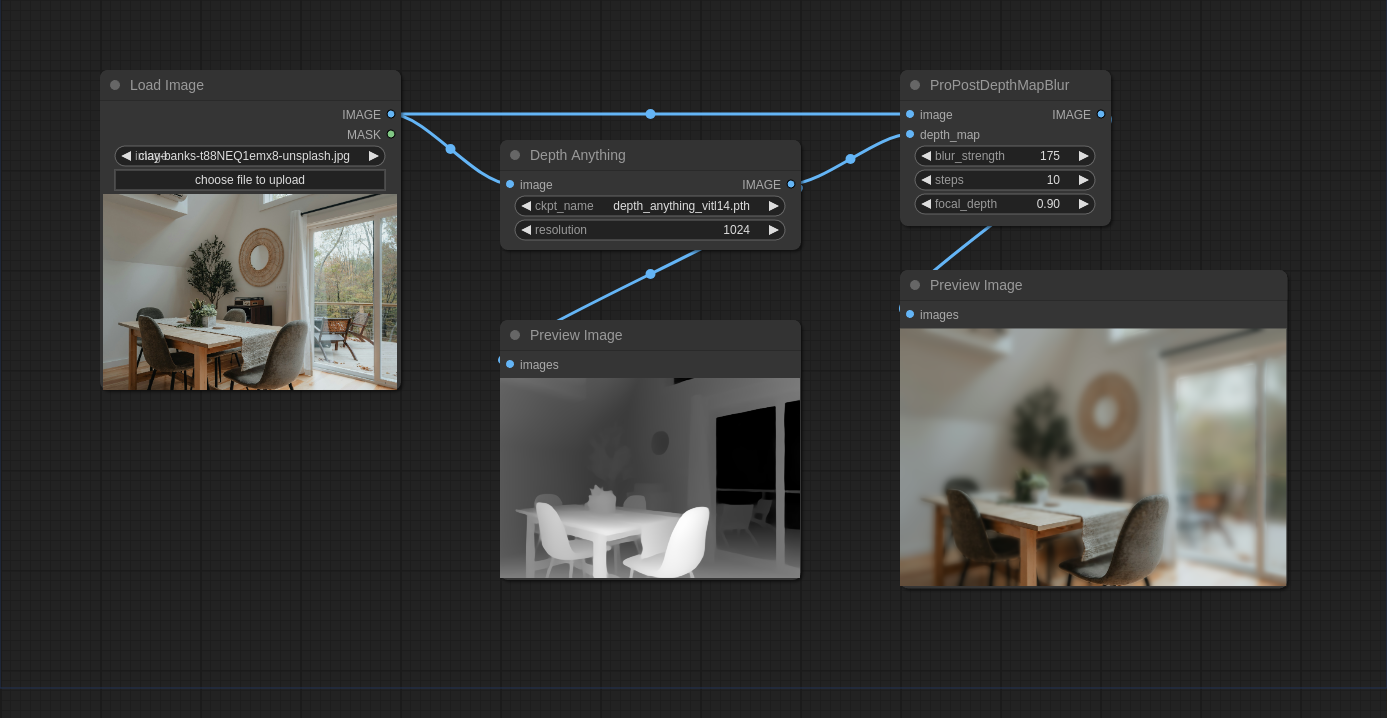
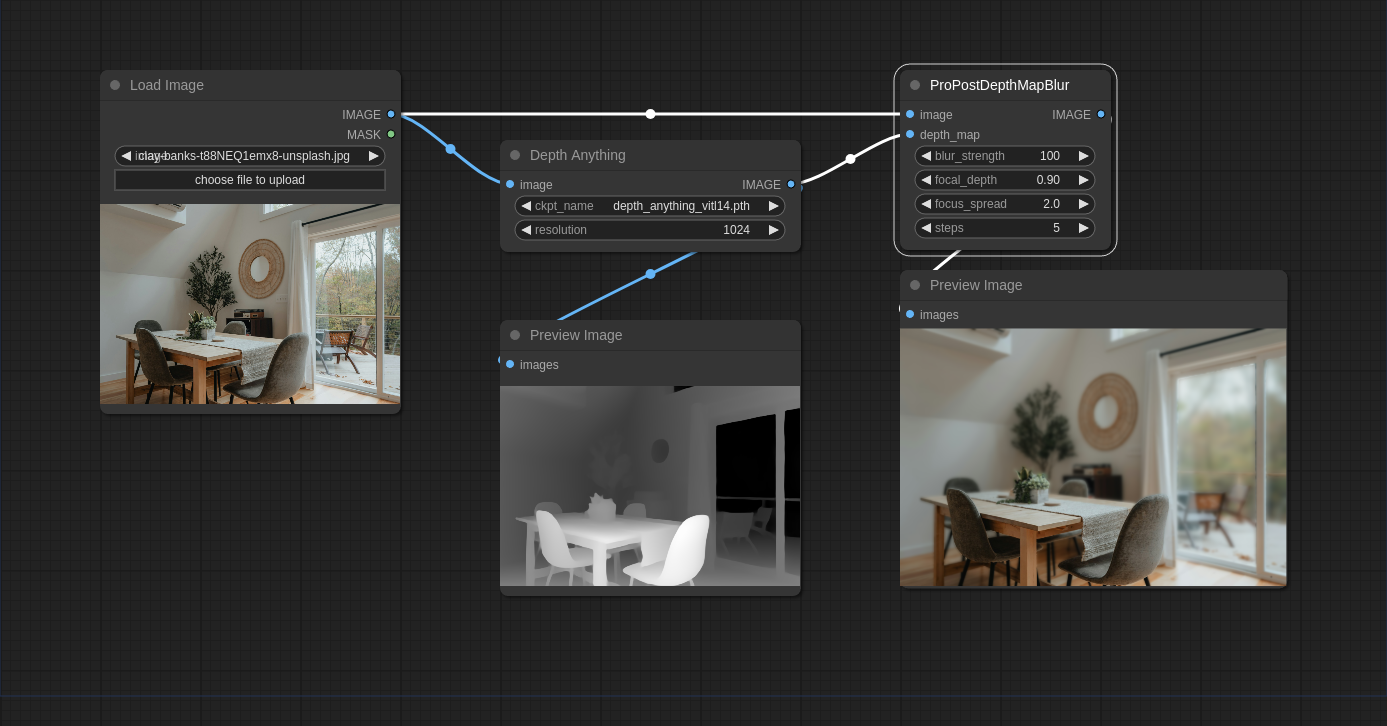
More depth control (#14)
* feat: Add exponential_base parameter to radial blur and depth map blur

This commit adds an "exponential_base" parameter to the "ProPostRadialBlur" and "ProPostDepthMapBlur" classes. This parameter allows for more control over the blurring effect by applying an exponential function to calculate the blur size. The default value is 1, and it can be adjusted between 1.0 and 8.0 with a step of 0.1.

The "generate_blurred_images" function in the "processing.py" file has been updated to use this new parameter when generating blurred images.

* more

* Docs tweaks

diff --git a/nodes.py b/nodes.py
@@ -224,12 +224,6 @@ class ProPostRadialBlur:
                     "max": 256.0,
                     "step": 1.0
                 }),
-                "center_focus_weight": ("FLOAT", {
-                    "default": 1.0,
-                    "min": 0.0,
-                    "max": 8.0,
-                    "step": 0.1
-                }),
                 "center_x": ("FLOAT", {
                     "default": 0.5,
                     "min": 0.0,
@@ -241,6 +235,12 @@ class ProPostRadialBlur:
                     "min": 0.0,
                     "max": 1.0,
                     "step": 0.01
+                }),
+                "focus_spread": ("FLOAT", {
+                    "default": 1,
+                    "min": 0.1,
+                    "max": 8.0,
+                    "step": 0.1
                 }),
                 "steps": ("INT", {
                     "default": 5,
@@ -259,7 +259,7 @@ class ProPostRadialBlur:
  
     CATEGORY = "Pro Post/Blur Effects"
  
-    def radialblur_image(self, image: torch.Tensor, blur_strength: float, center_focus_weight: float, center_x: float, center_y:float, steps: int):
+    def radialblur_image(self, image: torch.Tensor, blur_strength: float, center_x: float, center_y:float, focus_spread:float, steps: int):
         batch_size, height, width, _ = image.shape
         result = torch.zeros_like(image)
 
@@ -267,14 +267,14 @@ class ProPostRadialBlur:
             tensor_image = image[b].numpy()
 
             # Apply blur
-            blur_image = self.apply_radialblur(tensor_image, blur_strength, center_focus_weight, center_x, center_y, steps)
+            blur_image = self.apply_radialblur(tensor_image, blur_strength, center_x, center_y, focus_spread, steps)
 
             tensor = torch.from_numpy(blur_image).unsqueeze(0)
             result[b] = tensor
 
         return (result,)
 
-    def apply_radialblur(self, image, blur_strength, center_focus_weight, center_x_ratio, center_y_ratio, steps):
+    def apply_radialblur(self, image, blur_strength, center_x_ratio, center_y_ratio, focus_spread, steps):
         needs_normalization = image.max() > 1
         if needs_normalization:
             image = image.astype(np.float32) / 255
@@ -294,9 +294,8 @@ class ProPostRadialBlur:
         # Create and adjust radial mask
         X, Y = np.meshgrid(np.arange(width) - center_x, np.arange(height) - center_y)
         radial_mask = np.sqrt(X**2 + Y**2) / max_distance_to_corner
-        radial_mask = np.power(radial_mask, center_focus_weight)
 
-        blurred_images = processing_utils.generate_blurred_images(image, blur_strength, steps)
+        blurred_images = processing_utils.generate_blurred_images(image, blur_strength, steps, focus_spread)
         final_image = processing_utils.apply_blurred_images(image, blurred_images, radial_mask)
 
         if needs_normalization:
@@ -321,16 +320,22 @@ class ProPostDepthMapBlur:
                     "max": 256.0,
                     "step": 1.0
                 }),
-                "steps": ("INT", {
-                    "default": 5,
-                    "min": 1,
-                    "max": 32,
-                }),
                 "focal_depth": ("FLOAT", {
                     "default": 1.0,
                     "min": 0.0,
                     "max": 1.0,
                     "step": 0.01
+                }),
+                "focus_spread": ("FLOAT", {
+                    "default": 1,
+                    "min": 1.0,
+                    "max": 8.0,
+                    "step": 0.1
+                }),
+                "steps": ("INT", {
+                    "default": 5,
+                    "min": 1,
+                    "max": 32,
                 }),
             },
         }
@@ -344,7 +349,7 @@ class ProPostDepthMapBlur:
  
     CATEGORY = "Pro Post/Blur Effects"
  
-    def depthblur_image(self, image: torch.Tensor, depth_map: torch.Tensor, blur_strength: float, steps: int, focal_depth: float):
+    def depthblur_image(self, image: torch.Tensor, depth_map: torch.Tensor, blur_strength: float, focal_depth: float, focus_spread:float, steps: int):
         batch_size, height, width, _ = image.shape
         result = torch.zeros_like(image)
 
@@ -353,14 +358,14 @@ class ProPostDepthMapBlur:
             tensor_image_depth = depth_map[b].numpy()
 
             # Apply blur
-            blur_image = self.apply_depthblur(tensor_image, tensor_image_depth, blur_strength, steps, focal_depth)
+            blur_image = self.apply_depthblur(tensor_image, tensor_image_depth, blur_strength, focal_depth, focus_spread, steps)
 
             tensor = torch.from_numpy(blur_image).unsqueeze(0)
             result[b] = tensor
 
         return (result,)
 
-    def apply_depthblur(self, image, depth_map, blur_strength, steps, focal_depth):
+    def apply_depthblur(self, image, depth_map, blur_strength, focal_depth, focus_spread, steps):
         # Normalize the input image if needed
         needs_normalization = image.max() > 1
         if needs_normalization:
@@ -379,7 +384,7 @@ class ProPostDepthMapBlur:
         depth_mask = np.clip(depth_mask / np.max(depth_mask), 0, 1)
 
         # Generate blurred versions of the image
-        blurred_images = processing_utils.generate_blurred_images(image, blur_strength, steps)
+        blurred_images = processing_utils.generate_blurred_images(image, blur_strength, steps, focus_spread)
 
         # Use the adjusted depth map as a mask for applying blurred images
         final_image = processing_utils.apply_blurred_images(image, blurred_images, depth_mask)

diff --git a/utils/processing.py b/utils/processing.py
@@ -1,11 +1,15 @@
 import cv2
 import numpy as np
 
-def generate_blurred_images(image, blur_strength, steps):
+def generate_blurred_images(image, blur_strength, steps, focus_spread=1):
     blurred_images = []
     for step in range(1, steps + 1):
-        blur_size = max(1, int(blur_strength * step / steps))
+        # Adjust the curve based on the curve_weight
+        blur_factor = (step / steps) ** focus_spread * blur_strength
+        blur_size = max(1, int(blur_factor))
         blur_size = blur_size if blur_size % 2 == 1 else blur_size + 1  # Ensure blur_size is odd
+        
+        # Apply Gaussian Blur
         blurred_image = cv2.GaussianBlur(image, (blur_size, blur_size), 0)
         blurred_images.append(blurred_image)
     return blurred_images

diff --git a/README.md b/README.md
@@ -62,13 +62,13 @@ This filter allows you to blur the edges of the image. It has a few different op
 ![Pro Post Radial Blur Example](./examples/propost-radialblur.jpg)
 
 
-| Parameter            | Default   | Type    | Description                                                                   |
-|----------------------|-----------|---------|-------------------------------------------------------------------------------|
-| blur_strength        | `64.0`    | Float   | The intensity of the blur at the edges, with a range of 0.0 to 256.0.         |
-| center_focus_weight  | `1.0`     | Float   | How focused the blur is. A smaller value pinches the blur towards the center. |
-| center_x             | `0.5`     | Float   | The x-coordinate of the center of the blur. 0.0 to 1.0.                      |
-| center_y             | `0.5`     | Float   | The y-coordinate of the center of the blur. 0.0 to 1.0.                      |
-| steps                | `5`       | Integer | The number of steps to use when blurring the image. Higher numbers are slower.|
+| Parameter            | Default   | Type    | Description                                                                    |
+|----------------------|-----------|---------|--------------------------------------------------------------------------------|
+| blur_strength        | `64.0`    | Float   | The intensity of the blur at the edges, with a range of 0.0 to 256.0.          |
+| center_x             | `0.5`     | Float   | The x-coordinate of the center of the blur. 0.0 to 1.0.                        |
+| center_y             | `0.5`     | Float   | The y-coordinate of the center of the blur. 0.0 to 1.0.                        |
+| focus_spread         | `1.0`     | Float   | The spread of the area of focus. A larger value makes more of the image sharp. |
+| steps                | `5`       | Integer | The number of steps to use when blurring the image. Higher numbers are slower. |
 
 > Note: Using steps set to `1` can create some dreamy effects as seen below with a high edge_blur_strength.
 
@@ -85,12 +85,13 @@ This filter allows you to blur the image based on a depth map. You can use this 
 ![Pro Post Depth Map Blur Workflow](./examples/propost-depthmapblur-workflow.png)
 
 
-| Parameter            | Default   | Type    | Description                                                                   |
-|----------------------|-----------|---------|-------------------------------------------------------------------------------|
-| depth_map            | n/a       | Image   | The depth map to use for the blur.                                            |
-| blur_strength        | `64.0`    | Float   | The intensity of the blur at the edges, with a range of 0.0 to 256.0.         |
-| steps                | `5`       | Integer | The number of steps to use when blurring the image. Higher numbers are slower.|
-| focal_depth          | `1.0`     | Float   | The focal depth of the blur. `1.0` is the closest, `0.0` is the farthest.     |
+| Parameter            | Default   | Type    | Description                                                                    |
+|----------------------|-----------|---------|--------------------------------------------------------------------------------|
+| depth_map            | n/a       | Image   | The depth map to use for the blur.                                             |
+| blur_strength        | `64.0`    | Float   | The intensity of the blur, with a range of 0.0 to 256.0.                       |
+| focal_depth          | `1.0`     | Float   | The focal depth of the blur. `1.0` is the closest, `0.0` is the farthest.      |
+| focus_spread         | `1.0`     | Float   | The spread of the area of focus. A larger value makes more of the image sharp. |
+| steps                | `5`       | Integer | The number of steps to use when blurring the image. Higher numbers are slower. |
 
 
 ### Apply LUT
